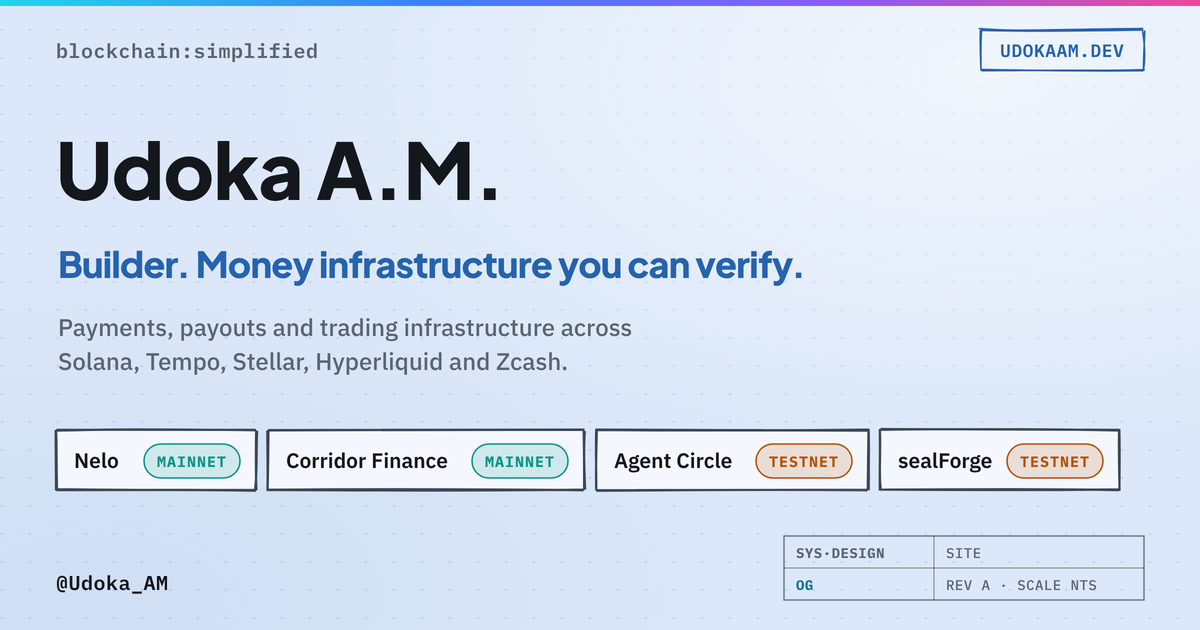
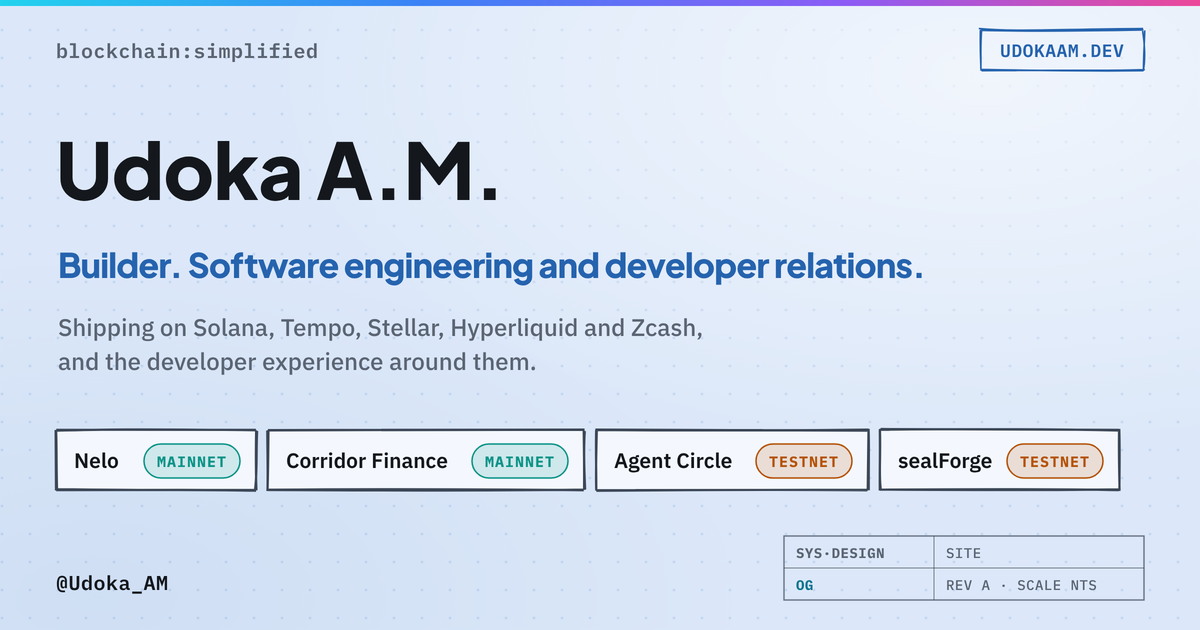
Broaden the intro and park the build report link
- Hero line: "Builder. Software engineering and developer relations."
- Intro covers payments, trading infrastructure, privacy tooling and
  developer experience; says he's open to software engineering and
  developer relations roles
- Build report button shows "coming soon" and links nowhere; the
  investor route no longer links to it, and the article is back to draft
- JSON-LD jobTitle and OG image updated to match

Claude-Session: https://claude.ai/code/session_01FXv2g8HN3mKAUV1ok6vQcJ

Changed region(s): [[0.0308, 0.3921, 0.7708, 0.4524], [0.0308, 0.5127, 0.5858, 0.6032]]

diff --git a/content/site.js b/content/site.js
@@ -16,12 +16,14 @@ export const SITE = {
     "Monday Udoka",
   ],
   role: "Builder",
-  // The one line every surface repeats: X, LinkedIn, this page, the meta tags.
-  tagline: "Money infrastructure you can verify.",
+  // Shown after the role in the hero and in every title and meta tag. Kept
+  // broad on purpose: the projects show the payments depth, this line keeps
+  // engineering and developer-relations roles in view.
+  tagline: "Software engineering and developer relations.",
   intro:
-    "I build payment, payout and trading infrastructure across Solana, Tempo, Stellar, Hyperliquid and Zcash, and every claim on this page names the network it ran on.",
+    "I build across Solana, Tempo, Stellar, Hyperliquid and Zcash: payments and payouts, trading infrastructure, privacy tooling, and the docs and developer experience that get other builders shipping. Every claim on this page names the network it ran on.",
   focus:
-    "Three years Solana-native. Now building on each chain for the primitive it does best, in the open, with contributors welcome.",
+    "Five years in web3, from developer relations to protocol engineering. Open to software engineering and developer relations roles, and always to contributors and collaborators.",
 };
 
 // href values are real URLs so the footer works before anything else is built.
@@ -56,7 +58,9 @@ export const NAV = [
 ];
 
 // The hero's one call to action. Point it at the newest build report.
+// Set `href` to a published article to make the hero button live. While it is
+// null the button shows as "coming soon" and links nowhere.
 export const LATEST_REPORT = {
-  label: "Read the latest build report",
-  href: "/writing/three-years-on-solana-two-months-across-five-chains/",
+  label: "Build report",
+  href: null,
 };

diff --git a/content/work-with-me.js b/content/work-with-me.js
@@ -11,11 +11,8 @@ const mail = (subject) =>
 export const ROUTES = [
   {
     who: "Investors",
-    line: "Monthly build reports in public, and a deck on request.",
-    links: [
-      { label: "Latest build report", href: "/writing/three-years-on-solana-two-months-across-five-chains/" },
-      { label: "Request the deck", href: mail("Investor: deck request") },
-    ],
+    line: "Everything here is built in the open, and a deck is available on request.",
+    links: [{ label: "Request the deck", href: mail("Investor: deck request") }],
   },
   {
     who: "Partners and integrations",
@@ -28,8 +25,8 @@ export const ROUTES = [
     links: [{ label: "Talk ecosystems", href: mail("Ecosystem / grant") }],
   },
   {
-    who: "Roles, contributions and advisory",
-    line: "Payments infrastructure, protocol engineering and developer relations.",
+    who: "Roles and advisory",
+    line: "Open to software engineering and developer relations roles, and to advisory work.",
     links: [
       { label: "Request my CV", href: mail("Role / advisory: CV request") },
       { label: "LinkedIn", href: "https://linkedin.com/in/udokaam" },

diff --git a/components/Hero.jsx b/components/Hero.jsx
@@ -32,9 +32,15 @@ export default function Hero() {
       </ul>
 
       <div className={s.ctas}>
-        <Link className={s.primary} href={LATEST_REPORT.href}>
-          {LATEST_REPORT.label} <span aria-hidden="true">→</span>
-        </Link>
+        {LATEST_REPORT.href ? (
+          <Link className={s.primary} href={LATEST_REPORT.href}>
+            Read the latest {LATEST_REPORT.label.toLowerCase()} <span aria-hidden="true">→</span>
+          </Link>
+        ) : (
+          <span className={`${s.primary} ${s.soon}`} aria-disabled="true">
+            {LATEST_REPORT.label} · coming soon
+          </span>
+        )}
         <a className={s.secondary} href="#work-with-me">
           Work with me
         </a>

diff --git a/components/Hero.module.css b/components/Hero.module.css
@@ -94,6 +94,16 @@
   background: var(--debit);
 }
 
+/* The call to action before there is anything to link to: visibly a button,
+   plainly not clickable. */
+.soon,
+.soon:hover {
+  background: transparent;
+  color: var(--muted);
+  border: 1px dashed var(--rule);
+  cursor: default;
+}
+
 .secondary {
   font-size: 15px;
   text-decoration: none;

diff --git a/components/StructuredData.jsx b/components/StructuredData.jsx
@@ -26,7 +26,7 @@ export default function StructuredData() {
     description: `${SITE.role}. ${SITE.tagline} ${SITE.intro}`,
     url: ORIGIN,
     email: "udoka.am@gmail.com",
-    jobTitle: SITE.role,
+    jobTitle: ["Builder", "Software Engineer", "Developer Relations"],
     sameAs: PROFILES,
     knowsAbout: [
       "Stablecoin payments",

diff --git a/content/writing/three-years-on-solana-two-months-across-five-chains.md b/content/writing/three-years-on-solana-two-months-across-five-chains.md
@@ -3,7 +3,7 @@ title: "Three years on Solana, two months across five chains: an honest build re
 topic: "build report · Nov 2026"
 blurb: "Why I started building on Tempo, Stellar, Hyperliquid and Zcash alongside Solana, what each project does, the chain feature it rests on, and exactly what is proven on which network."
 date: 2026-11-09
-draft: false
+draft: true
 ---
 
 For three years I built on one chain. Solana is where I learned how money moves on-chain. I started as a university student shipping my first products, then worked in developer relations at Superteam Nigeria, MagicBlock and QuickNode, taught more than 5,000 developers, and finally built Nelo, a merchant payments app that is now live on Solana mainnet.
